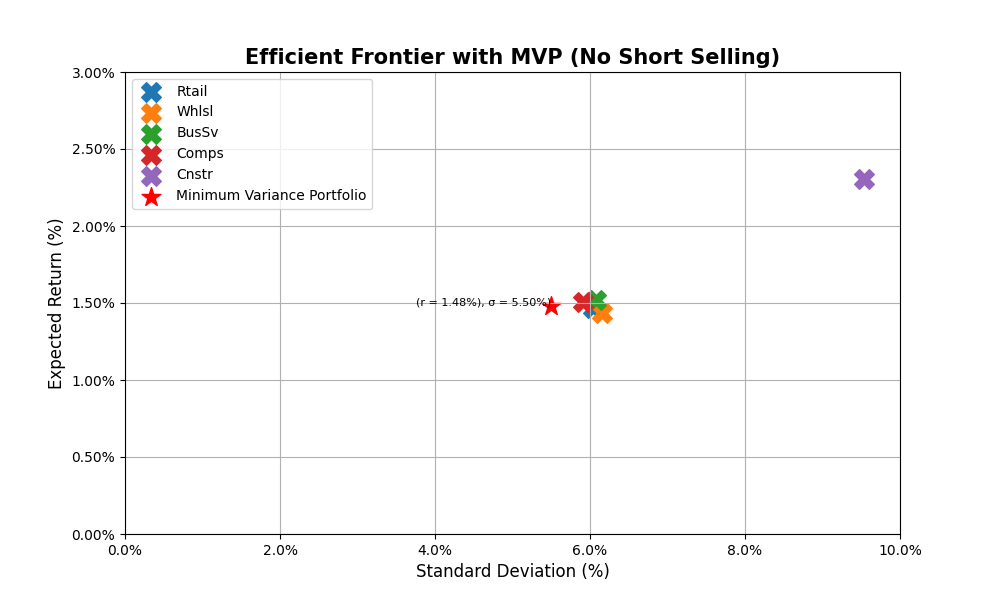
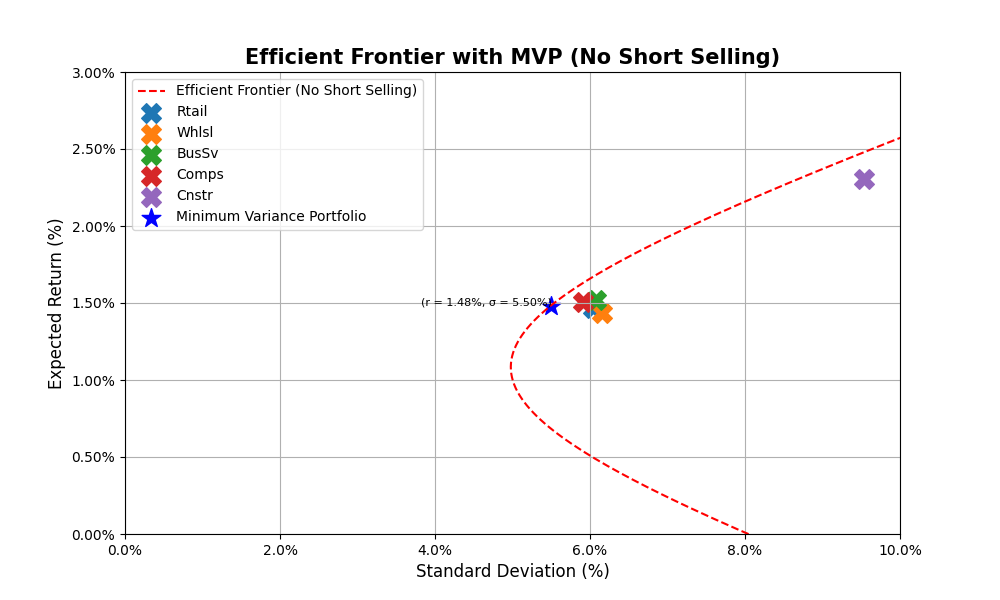
send

diff --git a/Project.py b/Project.py
@@ -359,19 +359,21 @@ mvp_risk_plot = mvp_risk  * 100
 mvp_return_plot = mvp_return * 100
 mvp_risk_plot = mvp_risk * 100
 
-# Plot Efficient Frontier (with no short selling)
+# Plot Efficient Frontier (Parabola)
 plt.figure(figsize=(10, 6))
 plt.grid(True)
+
+plt.plot(sigma_vals, mu_vals * 100, label="Efficient Frontier (No Short Selling)", color="red", linestyle='dashed')
 
 # Mark each industry (its own risk-return point)
 for industry in expected_returns.index:
     plt.scatter(np.std(returns[industry]) * 100, expected_returns[industry] * 100, 
                 marker='X', s=200, label=industry)
 
-# Mark the MVP (for reference, even though the MVP might not be feasible under the no short-sale constraint)
-plt.scatter(mvp_risk_plot, mvp_return_plot, color="red", marker="*", s=200, label="Minimum Variance Portfolio")
+# Mark the MVP (for reference)
+plt.scatter(mvp_risk_plot, mvp_return_plot, color="blue", marker="*", s=200, label="Minimum Variance Portfolio")
 plt.text(mvp_risk_plot, mvp_return_plot, 
-         f"(r = {mvp_return_plot:.2f}%), σ = {mvp_risk_plot:.2f}%)", fontsize=8, ha='right')
+         f"(r = {mvp_return_plot:.2f}%, σ = {mvp_risk_plot:.2f}%)", fontsize=8, ha='right')
 
 # Format axes as percentages
 plt.gca().xaxis.set_major_formatter(mtick.PercentFormatter())
@@ -392,8 +394,6 @@ plt.show()
 
 
 
-
-
 # A) 5. Graph the "mean-variance locus" (with the risk-free asset and w/ short-selling constraint) of the 5 industries. Specify each industry in the chart. 
 
 # Calculate the Tangency Portfolio
@@ -403,8 +403,17 @@ tangency_return = tangency_portfolio['expected_return']
 tangency_risk = tangency_portfolio['risk']
 tangency_sharpe_ratio = tangency_portfolio['sharpe_ratio']
 
-# Plotting the Efficient Frontier
+# ---- PLOT ---- #
 plt.figure(figsize=(10, 6))
+plt.grid(True)
+
+# Plot Efficient Frontier (Parabola)
+plt.plot(sigma_vals, mu_vals * 100, label="Efficient Frontier", color="blue", linestyle='dashed')
+
+# Plot Capital Market Line (CML)
+cml_x = np.linspace(0, max(sigma_vals), 100)
+cml_y = rf_rate * 100 + tangency_sharpe_ratio * cml_x
+plt.plot(cml_x, cml_y, label="Capital Market Line (CML)", color="green", linestyle='solid')
 
 # Mark each individual industry on the plot
 for industry in expected_returns.index:
@@ -413,8 +422,6 @@ for industry in expected_returns.index:
 
 # Mark the tangency portfolio on the plot
 plt.scatter(tangency_risk * 100, tangency_return * 100, color="blue", marker="*", s=200, label="Tangency Portfolio")
-
-# Annotate the tangency portfolio point
 plt.text(tangency_risk * 100, tangency_return * 100, 
          f"(r = {tangency_return*100:.2f}%), σ = {tangency_risk*100:.2f}%)", fontsize=8, ha='right')
 
@@ -428,12 +435,10 @@ plt.ylim(-3, 3)
 # Labels and title
 plt.xlabel("Standard Deviation (%)", fontsize=12)
 plt.ylabel("Expected Return (%)", fontsize=12)
-plt.title("Tangency Portfolio (Without Short Selling)", fontsize=15, fontweight='bold')
+plt.title("Efficient Frontier & CML (No Short Selling)", fontsize=15, fontweight='bold')
 plt.legend()
-plt.grid(True)
 plt.savefig("efficient_frontier_cmlA5.png")
 plt.show()
-
 
 
 
@@ -1016,13 +1021,14 @@ print(f"Sharpe Ratio: {best_sharpe_noshort:.4f}\n")
 # B) 4. Implement MAXSER approach to portfolio allocation for the 48 industries
 # Apply shrinkage estimation to the covariance matrix
 # Retrieve 48 industry portfolios from Kenneth French website
+# Retrieve 48 industry portfolios from Kenneth French's website
 def retrieve_full_industry_data():
     industry_reader = web.famafrench.FamaFrenchReader('48_Industry_Portfolios', start='2014-12', end='2024-12')
     portfolios_data = industry_reader.read()[0]  # First table contains the return data
-    portfolios_data = portfolios_data.replace([-99.99, -999], pd.NA).dropna()
-    industry_reader.close()
+    portfolios_data = portfolios_data.replace([-99.99, -999], np.nan).dropna()
     return portfolios_data / 100  # Convert percentage to decimal
 
+# Estimate shrinkage covariance matrix using Ledoit-Wolf
 def estimate_cov_matrix(returns):
     lw = LedoitWolf()
     return lw.fit(returns).covariance_
@@ -1031,7 +1037,7 @@ def estimate_cov_matrix(returns):
 def sharpe_ratio(weights, expected_returns, cov_matrix, rf_rate):
     port_return = np.dot(weights, expected_returns)
     port_risk = np.sqrt(np.dot(weights.T, np.dot(cov_matrix, weights)))
-    return (port_return - rf_rate) / port_risk
+    return (port_return - rf_rate) / port_risk if port_risk > 0 else -np.inf
 
 # Monte Carlo optimization with MAXSER
 def monte_carlo_maxser(returns, rf_rate, n_simulations=10000, allow_short_selling=True):
@@ -1039,10 +1045,10 @@ def monte_carlo_maxser(returns, rf_rate, n_simulations=10000, allow_short_sellin
     best_selection = None
     best_weights = None
     
-    industries = returns.columns
+    industries = list(returns.columns)  # Ensure it's a list
     
     for _ in range(n_simulations):
-        selected_industries = random.sample(list(industries), 5)
+        selected_industries = random.sample(industries, 5)
         subset_returns = returns[selected_industries]
         expected_returns = subset_returns.mean()
         cov_matrix = estimate_cov_matrix(subset_returns)
@@ -1062,7 +1068,8 @@ def monte_carlo_maxser(returns, rf_rate, n_simulations=10000, allow_short_sellin
         # Optimize
         result = minimize(neg_sharpe, initial_weights, method='SLSQP', bounds=bounds, constraints=constraints)
         
-        if result.success and -result.fun > best_sharpe:
+        # Store best result
+        if result.success and -result.fun > best_sharpe and np.all(result.x >= 0):
             best_sharpe = -result.fun
             best_selection = selected_industries
             best_weights = result.x
